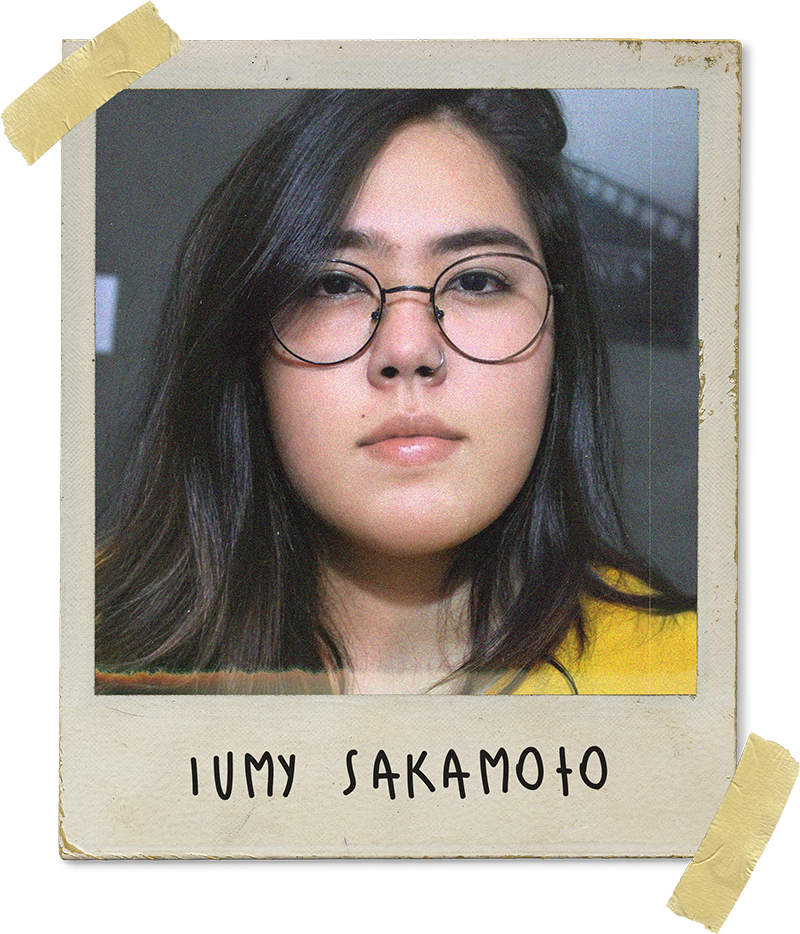
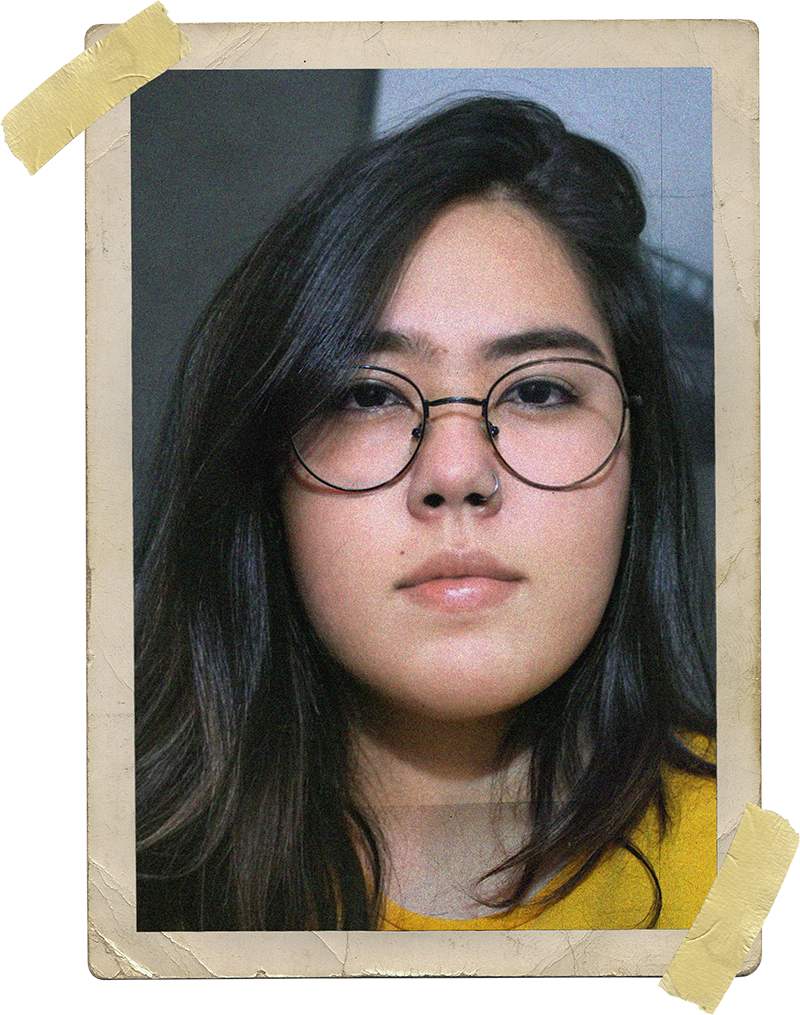
Definitions

diff --git a/index.html b/index.html
@@ -52,6 +52,10 @@
                                                         <h1 class="dv-bold"><💻 Hi, there! /></h1>
             
                                                         <h6>I'm a Front-end Developer who has UX/UI skills.</h6>
+
+                                                        <p class="dv-bold dv-margin-top-xdpi">First, let's put a movement with my playlist 💃</p>
+
+                                                        <iframe class="dv-margin-top-ldpi" style="border-radius:12px" src="https://open.spotify.com/embed/playlist/5NfqSlSgTVVDIKG3Rm3Xt7?utm_source=generator&theme=0" width="100%" height="80" frameBorder="0" allowfullscreen="" allow="autoplay; clipboard-write; encrypted-media; fullscreen; picture-in-picture"></iframe>
             
                                                     </div>
             
@@ -75,14 +79,28 @@
             
                                             <div class="dv-line dv-position-absolute-mobile dv-top dv-full-width dv-full-height-mobile" style="margin-top: 64px;">
             
-                                                <div class="dv-column dv-vertical-align-center dv-horizontal-align-center">
+                                                <div class="dv-column dv-vertical-align-center dv-horizontal-align-right">
             
-                                                    <div>
+                                                    <div class="dv-padding-hdpi">
             
-                                                        <h1 class="dv-bold"><💻 Hi, there! /></h1>
+                                                        <img width="300px" src="/img/me.png" style="transform: rotate(-15deg);">
             
-                                                        <h6>I'm a Front-end Developer who has UX/UI skills.</h6>
+                                                    </div>
             
+                                                </div>
+
+                                                <div class="dv-column dv-vertical-align-center dv-horizontal-align-left">
+            
+                                                    <div class="dv-padding-hdpi dv-padding-right-xdpi">
+            
+                                                        <h1 class="dv-bold">Iumy Sakamoto</h1>
+
+                                                        <p class="dv-margin-top-ldpi">Front-end Developer 🚀</p>
+
+                                                        <p class="dv-font-size-ldpi">Uberaba, Minas Gerais, Brasil</p>
+
+                                                        <h6 class="dv-bold dv-margin-top-mdpi">Skills</h6>
+
                                                     </div>
             
                                                 </div>
@@ -104,15 +122,36 @@
                                             <img width="1000px" src="/img/paper.png" style="position: relative;"> 
             
                                             <div class="dv-line dv-position-absolute-mobile dv-top dv-full-width dv-full-height-mobile" style="margin-top: 64px;">
-            
+
                                                 <div class="dv-column dv-vertical-align-center dv-horizontal-align-center">
             
-                                                    <div>
-            
-                                                        <h1 class="dv-bold"><💻 Hi, there! /></h1>
-            
-                                                        <h6>I'm a Front-end Developer who has UX/UI skills.</h6>
-            
+                                                    <div class="dv-padding-xdpi">
+
+                                                        <h1 class="dv-bold dv-margin-top-mdpi">About me</h1>
+
+                                                        <span class="dv-font-size-ldpi">"Once You've Met Someone, You Never Really Forget Them." - Spirited Away</span>
+
+                                                        <p class="dv-margin-top-ldpi">I work with web development with a focus on Front-end using HTML5, CSS3 and programming languages such as JavaScript, ReactJS and PHP, looking for a continuous improvement in the knowledge already acquired and in the learning of new languages and their best practices. I have skills and experience in UX/UI, putting in place efficient processes to improve user experience. </p>
+
+                                                        <div class="dv-vertical-aling-center dv-horizontal-aling-center">
+
+                                                            <h6 class="dv-margin-top-hdpi dv-bold">Personal trivia 👀</h6>
+                                                            
+                                                            <p class="dv-margin-top-ldpi dv-margin-left-mdpi">• Coding is my passion 💻</p>
+
+                                                            <p class="dv-margin-left-mdpi">• Currently studying Typescript 🌱</p>
+
+                                                            <p class="dv-margin-left-mdpi">• Drawing is my hobby 🎨</p>
+
+                                                            <p class="dv-margin-left-mdpi">• My favorite movie is Spirited Away 🎥</p>
+
+                                                            <p class="dv-margin-left-mdpi">• My pet is called Luna 🐶</p>
+
+
+                                                            <p></p>
+
+                                                        </div>
+
                                                     </div>
             
                                                 </div>

diff --git a/css/style.css b/css/style.css
@@ -978,7 +978,7 @@ code { font-family: Consolas; }
 
 .baby {
 	width: 300px;
-	margin-left: 150px;
+	margin-left: 50px;
 }
 
 .kid {
@@ -1110,4 +1110,22 @@ code { font-family: Consolas; }
 	transform-origin: 0% 0%;
 	transform: translate(-100%, 0);
 	transition: transform 1s;
+}
+
+
+.bar-container, .bar {  
+	height: 5px;  
+	border-radius: 5px;
+	content: "";
+}
+
+.bar-container {
+	background-color: black;
+}
+
+.pct {
+	position: absolute;
+	top: -6px;
+	right: 0;
+	transition: opacity 0.3s linear;
 }

diff --git a/js/script.js b/js/script.js
@@ -225,3 +225,6 @@ function addClass() {
   const  element = document.getElementById("menu");
   element.classList.toggle('actives');
 }
+
+
+
